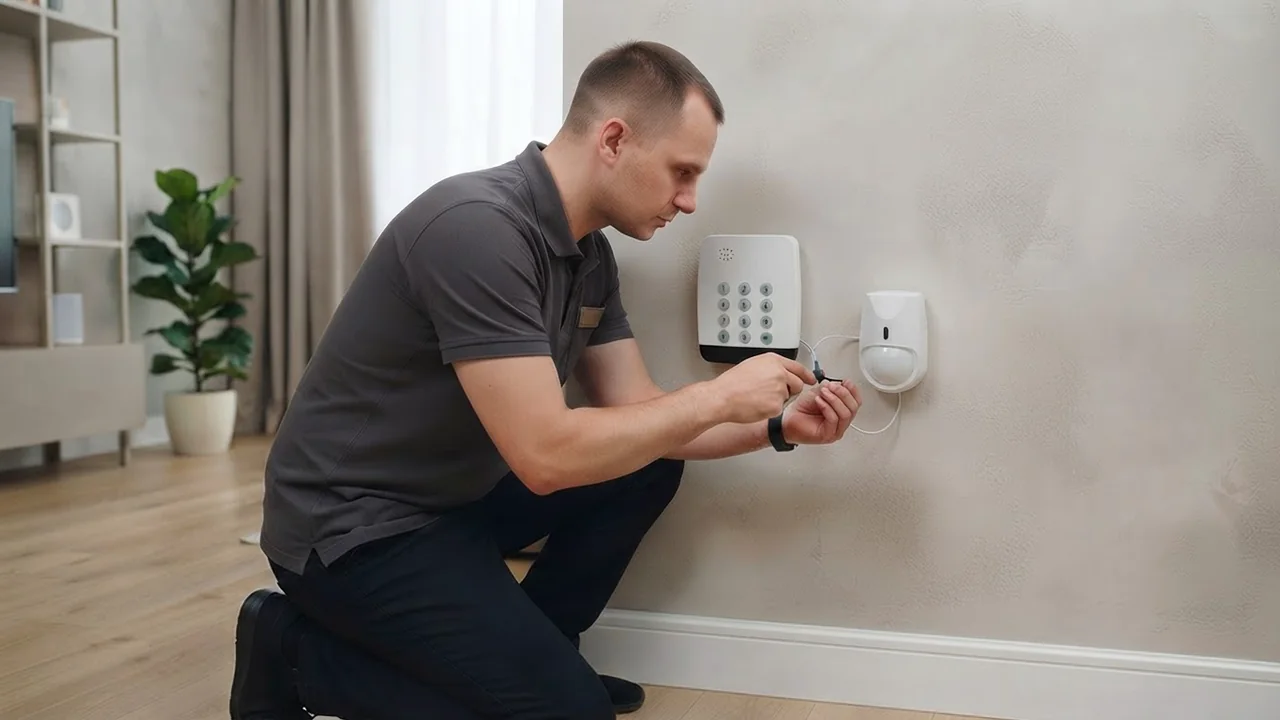
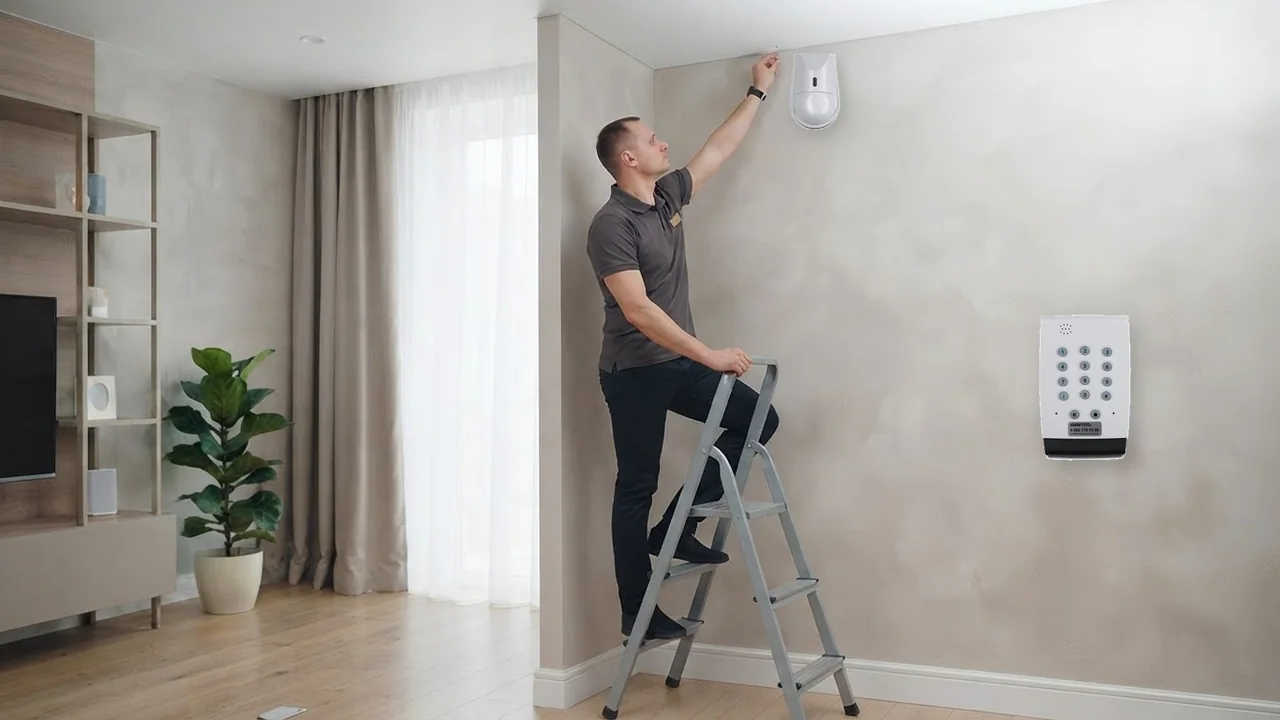
fix: use authentic equipment in promotion artwork

diff --git a/tests/promotions.test.js b/tests/promotions.test.js
@@ -3,6 +3,7 @@ const assert = require('node:assert/strict');
 const vm = require('node:vm');
 const fs = require('node:fs');
 const crypto = require('node:crypto');
+const { execFileSync } = require('node:child_process');
 
 function loadScript(file, context = {}) {
   context.window = context;
@@ -25,6 +26,37 @@ test('official equipment sources have verified local copies', () => {
     const sha256 = crypto.createHash('sha256').update(contents).digest('hex');
     assert.equal(sha256, source.sha256, `${name} SHA-256 mismatch`);
   });
+});
+
+test('corrected promotion outputs are exactly 1280x720', () => {
+  const files = ['switch-free.webp', 'rental-zero.webp', 'two-objects.webp'];
+
+  files.forEach((file) => {
+    const dimensions = execFileSync(
+      'python3',
+      ['-c', 'from PIL import Image; import sys; print(*Image.open(sys.argv[1]).size)', `public/assets/promotions/${file}`],
+      { encoding: 'utf8' }
+    ).trim();
+    assert.equal(dimensions, '1280 720', `${file} must be 1280x720`);
+  });
+});
+
+test('authentic promotions compositor uses every official equipment source', () => {
+  const compositor = fs.readFileSync('scripts/compose-authentic-promotions.py', 'utf8');
+  const requiredSources = [
+    'security-kit.png',
+    'security-sticker.webp',
+    'motion-sensor.webp',
+    'keypad.webp'
+  ];
+
+  requiredSources.forEach((source) => assert.match(compositor, new RegExp(source.replace('.', '\\.'))));
+});
+
+test('promotion optimizer excludes compositor helper images', () => {
+  const optimizer = fs.readFileSync('scripts/optimize-promotions.py', 'utf8');
+  assert.match(optimizer, /switch-free-background\.png/);
+  assert.match(optimizer, /two-objects-base\.png/);
 });
 
 test('catalog contains 14 unique client promotions', () => {

diff --git a/scripts/compose-authentic-promotions.py b/scripts/compose-authentic-promotions.py
@@ -1,0 +1,104 @@
+from collections import deque
+from pathlib import Path
+
+from PIL import Image, ImageFilter, ImageOps
+
+
+ROOT = Path("public/assets/promotions")
+SOURCE = ROOT / "source"
+REFERENCES = ROOT / "references"
+SIZE = (1280, 720)
+
+
+def contain_rgba(image, width, height):
+    layer = image.convert("RGBA")
+    layer.thumbnail((width, height), Image.Resampling.LANCZOS)
+    return layer
+
+
+def remove_edge_white(image, threshold=242):
+    """Make only edge-connected near-white pixels transparent."""
+    rgba = image.convert("RGBA")
+    pixels = rgba.load()
+    width, height = rgba.size
+    visited = bytearray(width * height)
+    queue = deque()
+
+    def is_background(x, y):
+        red, green, blue, _ = pixels[x, y]
+        return min(red, green, blue) >= threshold and max(red, green, blue) - min(red, green, blue) <= 12
+
+    for x in range(width):
+        if is_background(x, 0):
+            queue.append((x, 0))
+        if is_background(x, height - 1):
+            queue.append((x, height - 1))
+    for y in range(height):
+        if is_background(0, y):
+            queue.append((0, y))
+        if is_background(width - 1, y):
+            queue.append((width - 1, y))
+
+    while queue:
+        x, y = queue.popleft()
+        index = y * width + x
+        if visited[index] or not is_background(x, y):
+            continue
+        visited[index] = 1
+        red, green, blue, _ = pixels[x, y]
+        pixels[x, y] = (red, green, blue, 0)
+        if x:
+            queue.append((x - 1, y))
+        if x + 1 < width:
+            queue.append((x + 1, y))
+        if y:
+            queue.append((x, y - 1))
+        if y + 1 < height:
+            queue.append((x, y + 1))
+
+    return rgba
+
+
+def paste_with_shadow(canvas, layer, xy, blur=14, offset=(8, 10), opacity=72):
+    shadow = Image.new("RGBA", canvas.size, (0, 0, 0, 0))
+    alpha = layer.getchannel("A").point(lambda value: value * opacity // 255)
+    shadow_layer = Image.new("RGBA", layer.size, (28, 25, 22, 0))
+    shadow_layer.putalpha(alpha)
+    shadow.alpha_composite(shadow_layer, (xy[0] + offset[0], xy[1] + offset[1]))
+    canvas.alpha_composite(shadow.filter(ImageFilter.GaussianBlur(blur)))
+    canvas.alpha_composite(layer, xy)
+
+
+def compose_switch_free():
+    background = Image.open(SOURCE / "switch-free-background.png").convert("RGB")
+    canvas = ImageOps.fit(background, SIZE, method=Image.Resampling.LANCZOS).convert("RGBA")
+    sensor = contain_rgba(remove_edge_white(Image.open(REFERENCES / "motion-sensor.webp")), 90, 90)
+    keypad = contain_rgba(remove_edge_white(Image.open(REFERENCES / "keypad.webp")), 170, 170)
+    paste_with_shadow(canvas, sensor, (770, 46), blur=8, offset=(4, 5), opacity=48)
+    paste_with_shadow(canvas, keypad, (1000, 300), blur=10, offset=(6, 7), opacity=58)
+    canvas.convert("RGB").save(SOURCE / "switch-free.png", quality=95)
+
+
+def compose_rental_zero():
+    canvas = Image.new("RGBA", SIZE, "#e7e1d8")
+    kit = Image.open(REFERENCES / "security-kit.png").convert("RGBA")
+    kit = kit.crop(kit.getbbox())
+    kit = contain_rgba(kit, 940, 500)
+    xy = ((SIZE[0] - kit.width) // 2, (SIZE[1] - kit.height) // 2 - 6)
+    paste_with_shadow(canvas, kit, xy, blur=22, offset=(14, 18), opacity=62)
+    canvas.convert("RGB").save(SOURCE / "rental-zero.png", quality=95)
+
+
+def compose_two_objects():
+    canvas = Image.open(SOURCE / "two-objects-base.png").convert("RGB")
+    canvas = ImageOps.fit(canvas, SIZE, method=Image.Resampling.LANCZOS).convert("RGBA")
+    sticker = contain_rgba(Image.open(REFERENCES / "security-sticker.webp"), 165, 165)
+    paste_with_shadow(canvas, sticker, (1000, 70), blur=10, offset=(5, 7), opacity=52)
+    canvas.convert("RGB").save(SOURCE / "two-objects.png", quality=95)
+
+
+if __name__ == "__main__":
+    compose_switch_free()
+    compose_rental_zero()
+    compose_two_objects()
+    print("composed switch-free, rental-zero, and two-objects")

diff --git a/scripts/optimize-promotions.py b/scripts/optimize-promotions.py
@@ -5,7 +5,8 @@ from PIL import Image, ImageDraw, ImageOps
 
 root = Path("public/assets/promotions")
 source = root / "source"
-files = sorted(source.glob("*.png"))
+helper_files = {"switch-free-background.png", "two-objects-base.png"}
+files = sorted(file for file in source.glob("*.png") if file.name not in helper_files)
 assert len(files) == 14, f"Expected 14 images, found {len(files)}"
 
 for file in files:
